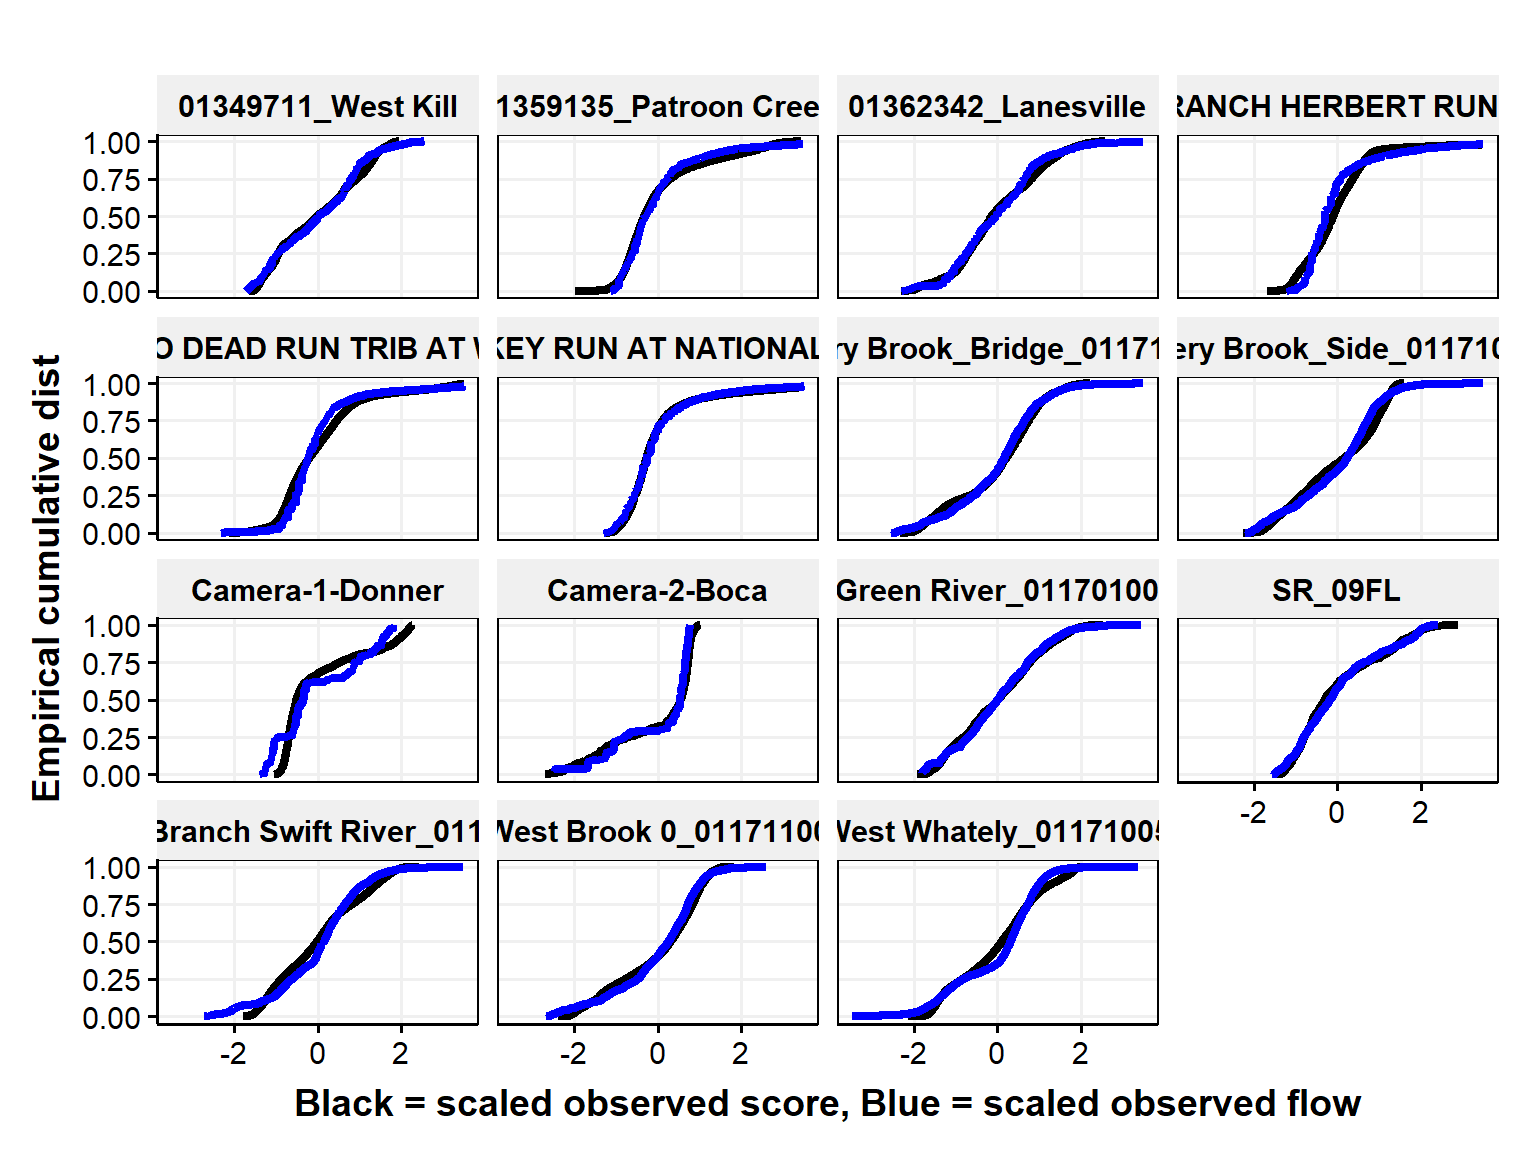
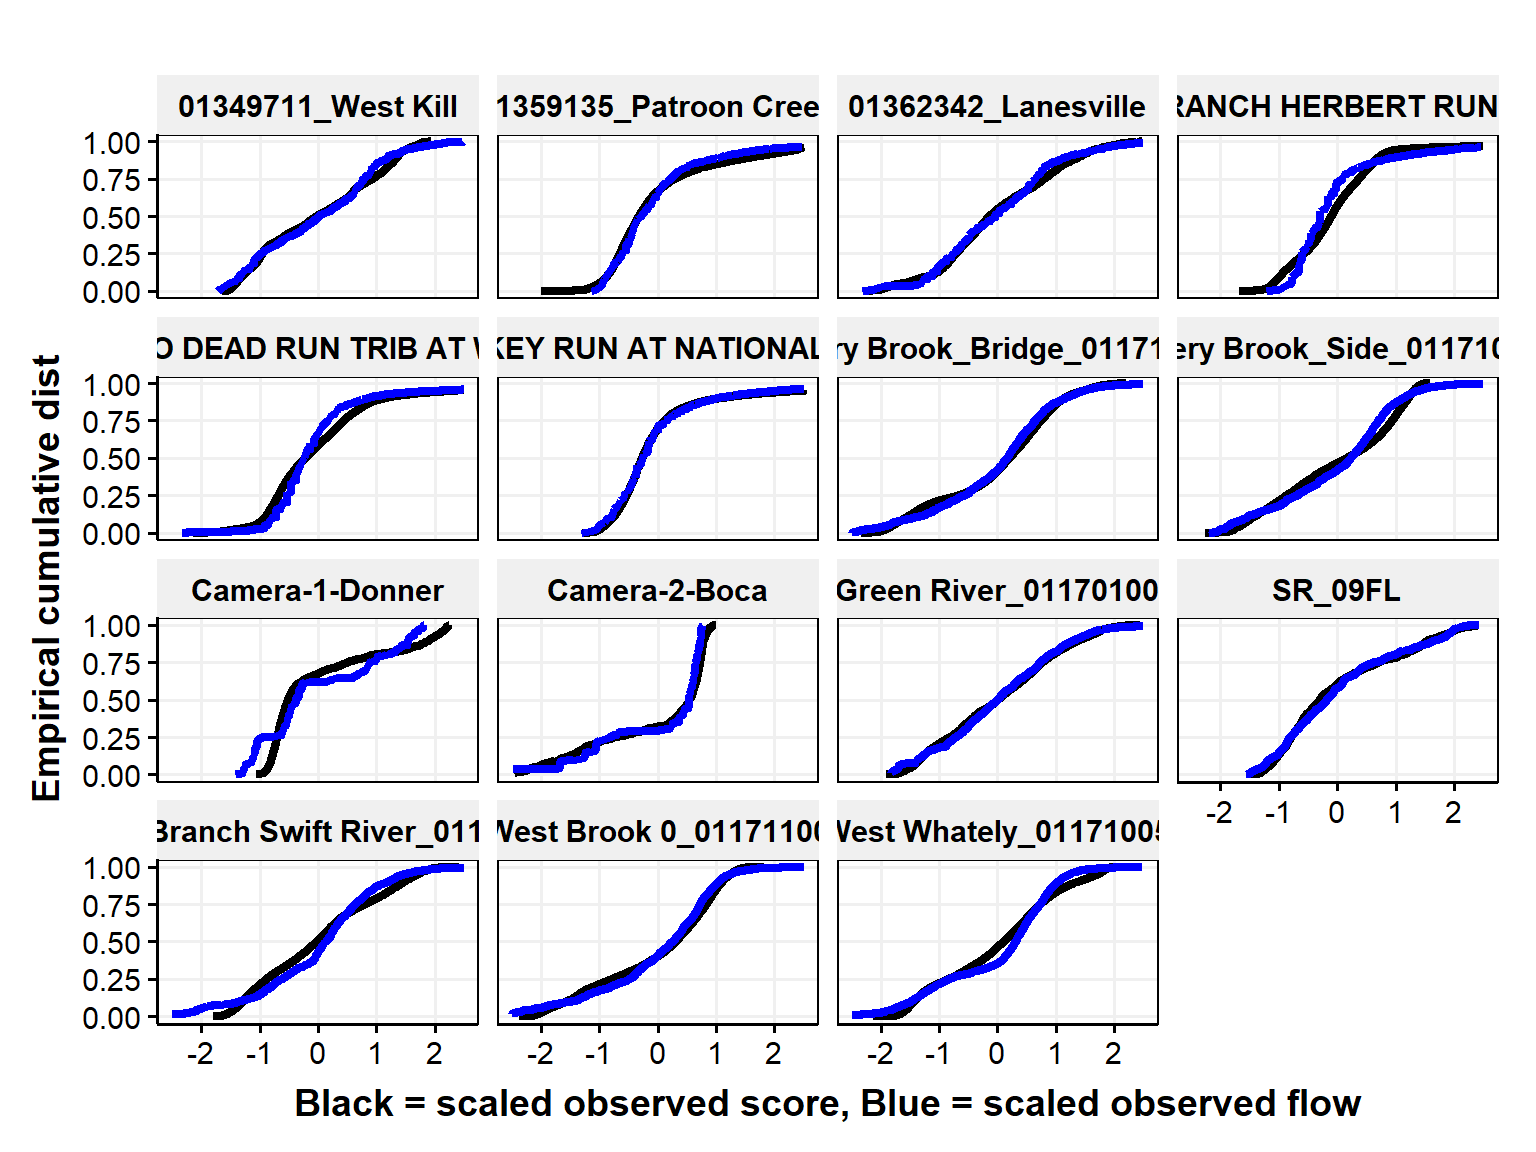
update

diff --git a/docs/realData.html b/docs/realData.html
@@ -184,7 +184,7 @@ pre > code.sourceCode > span > a:first-child::before { text-decoration: underlin
   <ul class="collapse">
   <li><a href="#plot-absolute-flow-ecdf" id="toc-plot-absolute-flow-ecdf" class="nav-link" data-scroll-target="#plot-absolute-flow-ecdf"><span class="header-section-number">2.2.1</span> Plot absolute flow ECDF</a></li>
   <li><a href="#plot-raw-score-and-flow-ecdf" id="toc-plot-raw-score-and-flow-ecdf" class="nav-link" data-scroll-target="#plot-raw-score-and-flow-ecdf"><span class="header-section-number">2.2.2</span> Plot raw score and flow ECDF</a></li>
-  <li><a href="#plot-scaled-score-and-flow-ecdf" id="toc-plot-scaled-score-and-flow-ecdf" class="nav-link" data-scroll-target="#plot-scaled-score-and-flow-ecdf"><span class="header-section-number">2.2.3</span> Plot scaled score and flow ECDF</a></li>
+  <li><a href="#plot-scaled-score-and-flow-ecdf" id="toc-plot-scaled-score-and-flow-ecdf" class="nav-link" data-scroll-target="#plot-scaled-score-and-flow-ecdf"><span class="header-section-number">2.2.3</span> Plot <strong>scaled</strong> score and flow ECDF</a></li>
   </ul></li>
   <li><a href="#filter-sites" id="toc-filter-sites" class="nav-link" data-scroll-target="#filter-sites"><span class="header-section-number">2.3</span> Filter sites</a>
   <ul class="collapse">
@@ -398,7 +398,7 @@ Manipulation includes scaling (z-score) the <strong>absolute flow</strong> (<cod
 <div class="sourceCode cell-code" id="cb7"><pre class="sourceCode r code-with-copy"><code class="sourceCode r"><span id="cb7-1"><a href="#cb7-1" aria-hidden="true" tabindex="-1"></a> <span class="fu">ggplot</span>(d, <span class="fu">aes</span>(score, score_ecdf)) <span class="sc">+</span> </span>
 <span id="cb7-2"><a href="#cb7-2" aria-hidden="true" tabindex="-1"></a>    <span class="fu">geom_line</span>(<span class="at">size =</span> <span class="fl">1.5</span>) <span class="sc">+</span></span>
 <span id="cb7-3"><a href="#cb7-3" aria-hidden="true" tabindex="-1"></a>    <span class="fu">geom_line</span>( <span class="fu">aes</span>(flow_cfs_log10, flow_cfs_log10_ecdf), <span class="at">color =</span> <span class="st">"blue"</span>, <span class="at">size =</span> <span class="fl">1.5</span>) <span class="sc">+</span></span>
-<span id="cb7-4"><a href="#cb7-4" aria-hidden="true" tabindex="-1"></a>    <span class="fu">labs</span>(<span class="at">x =</span> <span class="st">"Black = scaled observed score, Blue = scaled observed flow"</span>, <span class="at">y =</span> <span class="st">"Empirical cumulative dist"</span>) <span class="sc">+</span></span>
+<span id="cb7-4"><a href="#cb7-4" aria-hidden="true" tabindex="-1"></a>    <span class="fu">labs</span>(<span class="at">x =</span> <span class="st">"Black = observed score, Blue = observed log10 flow"</span>, <span class="at">y =</span> <span class="st">"Empirical cumulative dist"</span>) <span class="sc">+</span></span>
 <span id="cb7-5"><a href="#cb7-5" aria-hidden="true" tabindex="-1"></a>    <span class="co">#xlim(c(-3.5,3.5)) +</span></span>
 <span id="cb7-6"><a href="#cb7-6" aria-hidden="true" tabindex="-1"></a>    <span class="fu">facet_wrap</span>(<span class="sc">~</span>station_name, <span class="at">scales =</span> <span class="st">'free'</span>) <span class="sc">+</span></span>
 <span id="cb7-7"><a href="#cb7-7" aria-hidden="true" tabindex="-1"></a>    <span class="fu">theme_publication</span>() </span></code><button title="Copy to Clipboard" class="code-copy-button"><i class="bi"></i></button></pre></div>
@@ -413,7 +413,7 @@ Manipulation includes scaling (z-score) the <strong>absolute flow</strong> (<cod
 </div>
 </section>
 <section id="plot-scaled-score-and-flow-ecdf" class="level3" data-number="2.2.3">
-<h3 data-number="2.2.3" class="anchored" data-anchor-id="plot-scaled-score-and-flow-ecdf"><span class="header-section-number">2.2.3</span> Plot scaled score and flow ECDF</h3>
+<h3 data-number="2.2.3" class="anchored" data-anchor-id="plot-scaled-score-and-flow-ecdf"><span class="header-section-number">2.2.3</span> Plot <strong>scaled</strong> score and flow ECDF</h3>
 <div class="cell">
 <details class="code-fold">
 <summary>Code</summary>
@@ -421,7 +421,7 @@ Manipulation includes scaling (z-score) the <strong>absolute flow</strong> (<cod
 <span id="cb8-2"><a href="#cb8-2" aria-hidden="true" tabindex="-1"></a>    <span class="fu">geom_line</span>(<span class="at">size =</span> <span class="fl">1.5</span>) <span class="sc">+</span></span>
 <span id="cb8-3"><a href="#cb8-3" aria-hidden="true" tabindex="-1"></a>    <span class="fu">geom_line</span>( <span class="fu">aes</span>(flow_cfs_log10_scaled, flow_cfs_log10_scaled_ecdf), <span class="at">color =</span> <span class="st">"blue"</span>, <span class="at">size =</span> <span class="fl">1.5</span>) <span class="sc">+</span></span>
 <span id="cb8-4"><a href="#cb8-4" aria-hidden="true" tabindex="-1"></a>    <span class="fu">labs</span>(<span class="at">x =</span> <span class="st">"Black = scaled observed score, Blue = scaled observed flow"</span>, <span class="at">y =</span> <span class="st">"Empirical cumulative dist"</span>) <span class="sc">+</span></span>
-<span id="cb8-5"><a href="#cb8-5" aria-hidden="true" tabindex="-1"></a>    <span class="fu">xlim</span>(<span class="fu">c</span>(<span class="sc">-</span><span class="fl">3.5</span>,<span class="fl">3.5</span>)) <span class="sc">+</span></span>
+<span id="cb8-5"><a href="#cb8-5" aria-hidden="true" tabindex="-1"></a>    <span class="fu">xlim</span>(<span class="fu">c</span>(<span class="sc">-</span><span class="fl">2.5</span>,<span class="fl">2.5</span>)) <span class="sc">+</span></span>
 <span id="cb8-6"><a href="#cb8-6" aria-hidden="true" tabindex="-1"></a>    <span class="fu">facet_wrap</span>(<span class="sc">~</span>station_name) <span class="sc">+</span></span>
 <span id="cb8-7"><a href="#cb8-7" aria-hidden="true" tabindex="-1"></a>    <span class="fu">theme_publication</span>() </span></code><button title="Copy to Clipboard" class="code-copy-button"><i class="bi"></i></button></pre></div>
 </details>
@@ -2932,14 +2932,14 @@ window.document.addEventListener("DOMContentLoaded", function (event) {
 <span id="cb135-164"><a href="#cb135-164" aria-hidden="true" tabindex="-1"></a> <span class="fu">ggplot</span>(d, <span class="fu">aes</span>(score, score_ecdf)) <span class="sc">+</span> </span>
 <span id="cb135-165"><a href="#cb135-165" aria-hidden="true" tabindex="-1"></a>    <span class="fu">geom_line</span>(<span class="at">size =</span> <span class="fl">1.5</span>) <span class="sc">+</span></span>
 <span id="cb135-166"><a href="#cb135-166" aria-hidden="true" tabindex="-1"></a>    <span class="fu">geom_line</span>( <span class="fu">aes</span>(flow_cfs_log10, flow_cfs_log10_ecdf), <span class="at">color =</span> <span class="st">"blue"</span>, <span class="at">size =</span> <span class="fl">1.5</span>) <span class="sc">+</span></span>
-<span id="cb135-167"><a href="#cb135-167" aria-hidden="true" tabindex="-1"></a>    <span class="fu">labs</span>(<span class="at">x =</span> <span class="st">"Black = scaled observed score, Blue = scaled observed flow"</span>, <span class="at">y =</span> <span class="st">"Empirical cumulative dist"</span>) <span class="sc">+</span></span>
+<span id="cb135-167"><a href="#cb135-167" aria-hidden="true" tabindex="-1"></a>    <span class="fu">labs</span>(<span class="at">x =</span> <span class="st">"Black = observed score, Blue = observed log10 flow"</span>, <span class="at">y =</span> <span class="st">"Empirical cumulative dist"</span>) <span class="sc">+</span></span>
 <span id="cb135-168"><a href="#cb135-168" aria-hidden="true" tabindex="-1"></a>    <span class="co">#xlim(c(-3.5,3.5)) +</span></span>
 <span id="cb135-169"><a href="#cb135-169" aria-hidden="true" tabindex="-1"></a>    <span class="fu">facet_wrap</span>(<span class="sc">~</span>station_name, <span class="at">scales =</span> <span class="st">'free'</span>) <span class="sc">+</span></span>
 <span id="cb135-170"><a href="#cb135-170" aria-hidden="true" tabindex="-1"></a>    <span class="fu">theme_publication</span>() </span>
 <span id="cb135-171"><a href="#cb135-171" aria-hidden="true" tabindex="-1"></a><span class="in">```</span></span>
 <span id="cb135-172"><a href="#cb135-172" aria-hidden="true" tabindex="-1"></a></span>
 <span id="cb135-173"><a href="#cb135-173" aria-hidden="true" tabindex="-1"></a></span>
-<span id="cb135-174"><a href="#cb135-174" aria-hidden="true" tabindex="-1"></a><span class="fu">### Plot scaled score and flow ECDF</span></span>
+<span id="cb135-174"><a href="#cb135-174" aria-hidden="true" tabindex="-1"></a><span class="fu">### Plot **scaled** score and flow ECDF</span></span>
 <span id="cb135-177"><a href="#cb135-177" aria-hidden="true" tabindex="-1"></a><span class="in">```{r}</span></span>
 <span id="cb135-178"><a href="#cb135-178" aria-hidden="true" tabindex="-1"></a><span class="co">#| label: plot_score_flow_ecdf</span></span>
 <span id="cb135-179"><a href="#cb135-179" aria-hidden="true" tabindex="-1"></a></span>
@@ -2947,7 +2947,7 @@ window.document.addEventListener("DOMContentLoaded", function (event) {
 <span id="cb135-181"><a href="#cb135-181" aria-hidden="true" tabindex="-1"></a>    <span class="fu">geom_line</span>(<span class="at">size =</span> <span class="fl">1.5</span>) <span class="sc">+</span></span>
 <span id="cb135-182"><a href="#cb135-182" aria-hidden="true" tabindex="-1"></a>    <span class="fu">geom_line</span>( <span class="fu">aes</span>(flow_cfs_log10_scaled, flow_cfs_log10_scaled_ecdf), <span class="at">color =</span> <span class="st">"blue"</span>, <span class="at">size =</span> <span class="fl">1.5</span>) <span class="sc">+</span></span>
 <span id="cb135-183"><a href="#cb135-183" aria-hidden="true" tabindex="-1"></a>    <span class="fu">labs</span>(<span class="at">x =</span> <span class="st">"Black = scaled observed score, Blue = scaled observed flow"</span>, <span class="at">y =</span> <span class="st">"Empirical cumulative dist"</span>) <span class="sc">+</span></span>
-<span id="cb135-184"><a href="#cb135-184" aria-hidden="true" tabindex="-1"></a>    <span class="fu">xlim</span>(<span class="fu">c</span>(<span class="sc">-</span><span class="fl">3.5</span>,<span class="fl">3.5</span>)) <span class="sc">+</span></span>
+<span id="cb135-184"><a href="#cb135-184" aria-hidden="true" tabindex="-1"></a>    <span class="fu">xlim</span>(<span class="fu">c</span>(<span class="sc">-</span><span class="fl">2.5</span>,<span class="fl">2.5</span>)) <span class="sc">+</span></span>
 <span id="cb135-185"><a href="#cb135-185" aria-hidden="true" tabindex="-1"></a>    <span class="fu">facet_wrap</span>(<span class="sc">~</span>station_name) <span class="sc">+</span></span>
 <span id="cb135-186"><a href="#cb135-186" aria-hidden="true" tabindex="-1"></a>    <span class="fu">theme_publication</span>() </span>
 <span id="cb135-187"><a href="#cb135-187" aria-hidden="true" tabindex="-1"></a></span>
